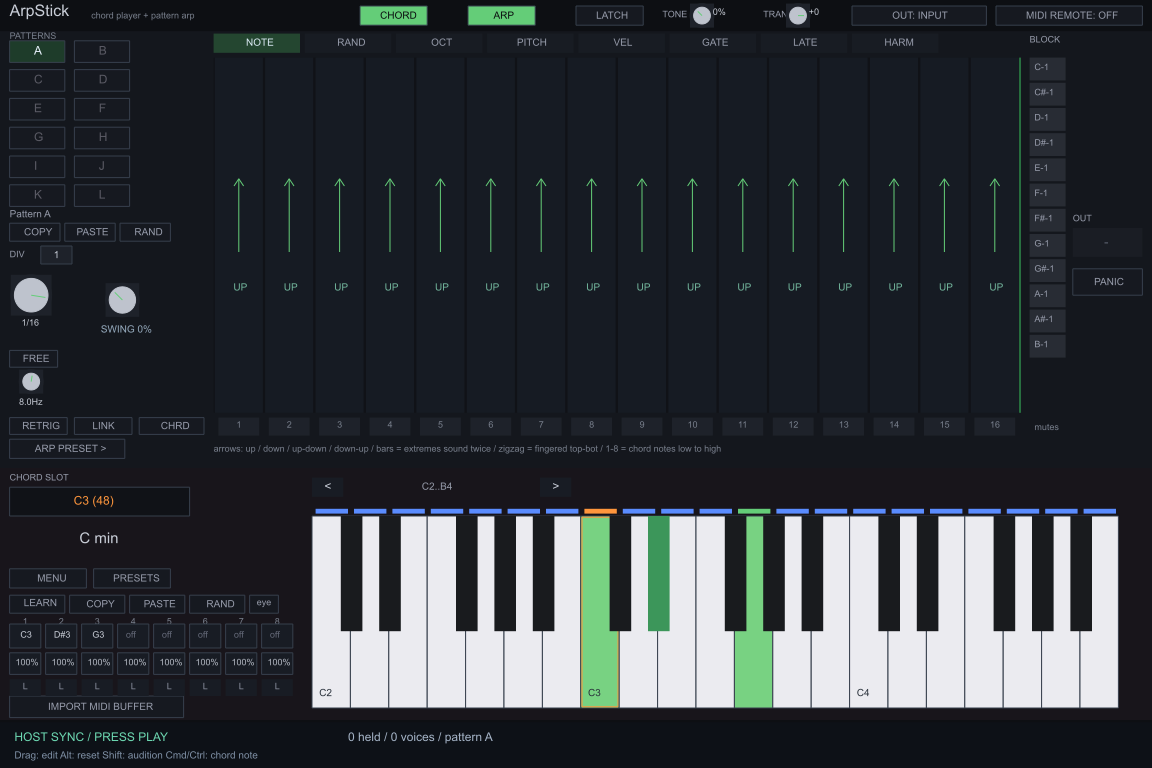
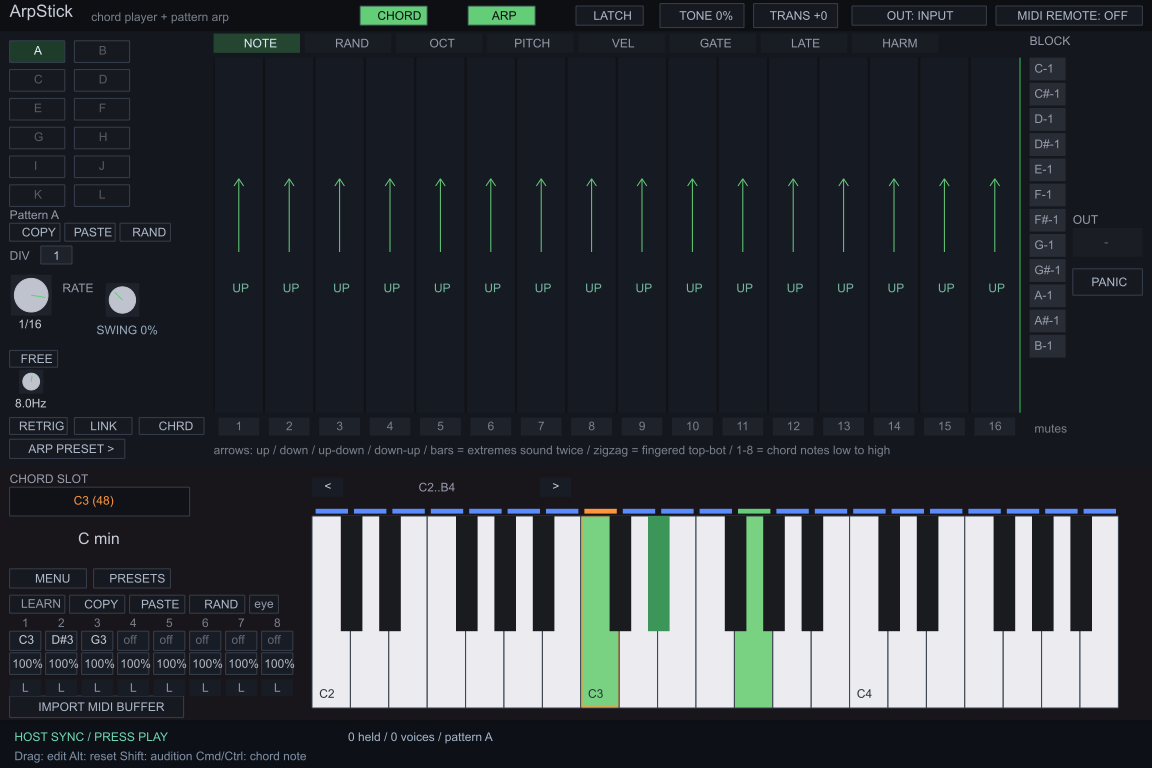
chore: update scalable GUI previews and rendering tools

diff --git a/tools/render_gui.py b/tools/render_gui.py
@@ -17,7 +17,7 @@ function trace_measure(s,w,h) (w=strlen(s)*trace_size*0.54; h=trace_size;);
 function trace_text(fmt,s) (printf("TEXT %.3f %.3f %.3f %.3f %.3f %.3f %s\\n",gfx_x,gfx_y,trace_size,gfx_r,gfx_g,gfx_b,s););
 '''
 
-def render(binary, output, lane=0):
+def render(binary, output, lane=0, width=1152, height=768):
     code = preprocess(PLUGIN.read_text())
     for name in ('rect','line','circle','setfont','measurestr','printf'):
         target={'setfont':'font','measurestr':'measure','printf':'text'}.get(name,name)
@@ -25,15 +25,15 @@ def render(binary, output, lane=0):
     # EEL helpers have fixed argument counts; gfx_line's optional AA defaults to 1.
     import re
     code=re.sub(r'trace_line\(([^;\n]+)\)',lambda m:'trace_line('+m[1]+(',1' if m[1].count(',')==3 else '')+')',code)
-    code=code.replace('trace_measure(s, w, h);','w=strlen(s)*trace_size*0.54; h=trace_size;')
-    code=WRAPPERS+code+f'\ngfx_w=1152; gfx_h=768; curGraph={lane}; mouse_x=-1; mouse_y=-1; __gfx();\n'
+    code=code.replace('trace_measure(s, w, h);','w=strlen(s)*trace_size*0.54; h=trace_size;').replace('trace_measure(lab,tw,th);','tw=strlen(lab)*trace_size*0.54; th=trace_size;')
+    code=WRAPPERS+code+f'\ngfx_w={width}; gfx_h={height}; curGraph={lane}; mouse_x=-1; mouse_y=-1; __gfx();\n'
     import tempfile
     with tempfile.NamedTemporaryFile('w',suffix='.eel') as f:
         f.write(code);f.flush()
         result=subprocess.run([binary,f.name],capture_output=True,text=True,check=True)
     if 'syntax error' in result.stderr or 'syntax error' in result.stdout:
         raise RuntimeError(result.stdout+result.stderr)
-    svg=['<svg xmlns="http://www.w3.org/2000/svg" width="1152" height="768" viewBox="0 0 1152 768">']
+    svg=[f'<svg xmlns="http://www.w3.org/2000/svg" width="{width}" height="{height}" viewBox="0 0 {width} {height}">']
     def color(vals):return 'rgb('+','.join(str(round(max(0,min(1,float(x)))*255)) for x in vals)+')'
     for line in result.stdout.splitlines():
         parts=line.split(' ')
@@ -48,4 +48,4 @@ def render(binary, output, lane=0):
     svg.append('</svg>'); Path(output).write_text('\n'.join(svg))
 
 if __name__=='__main__':
-    ap=argparse.ArgumentParser(description=__doc__);ap.add_argument('binary');ap.add_argument('output');ap.add_argument('--lane',type=int,default=0);a=ap.parse_args();render(a.binary,a.output,a.lane)
+    ap=argparse.ArgumentParser(description=__doc__);ap.add_argument('binary');ap.add_argument('output');ap.add_argument('--lane',type=int,default=0);ap.add_argument('--width',type=int,default=1152);ap.add_argument('--height',type=int,default=768);a=ap.parse_args();render(a.binary,a.output,a.lane,a.width,a.height)
